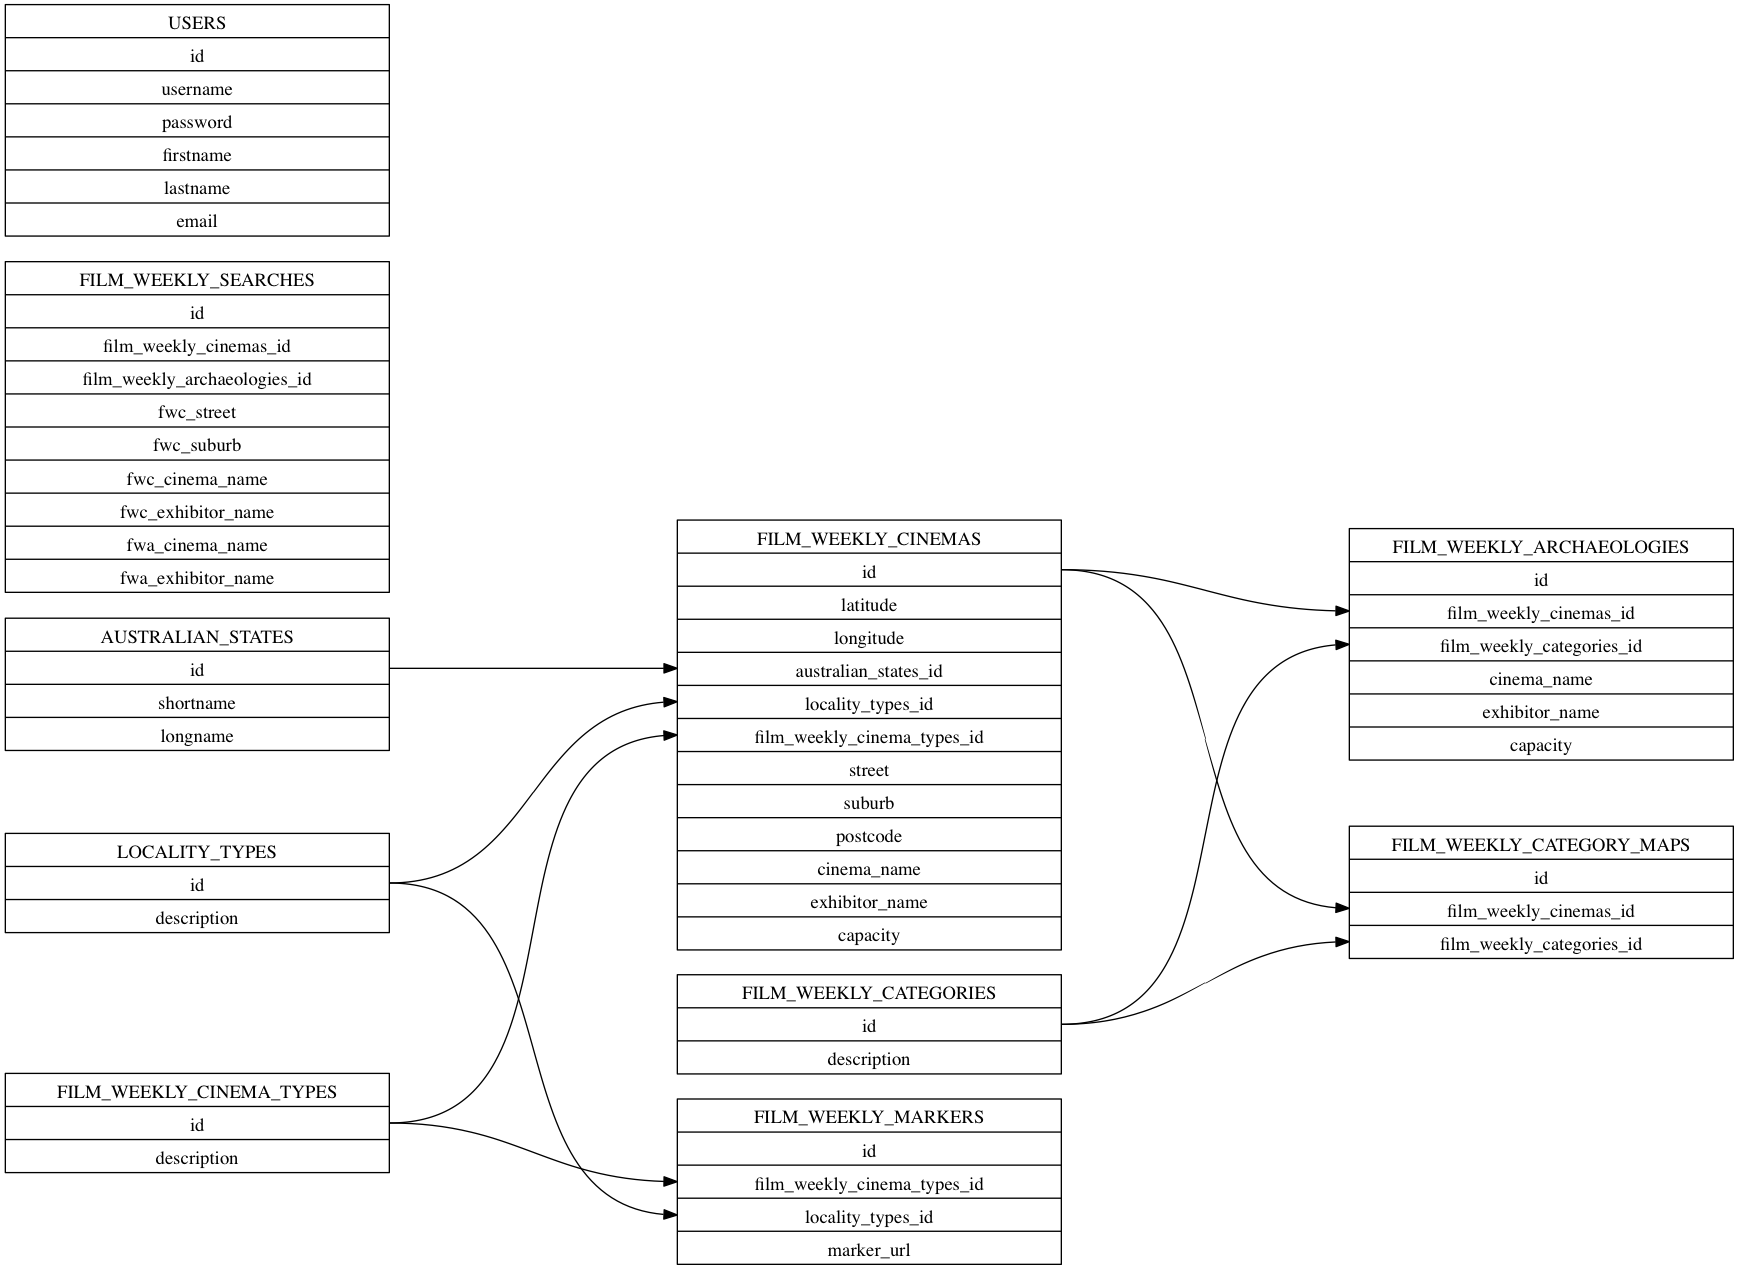
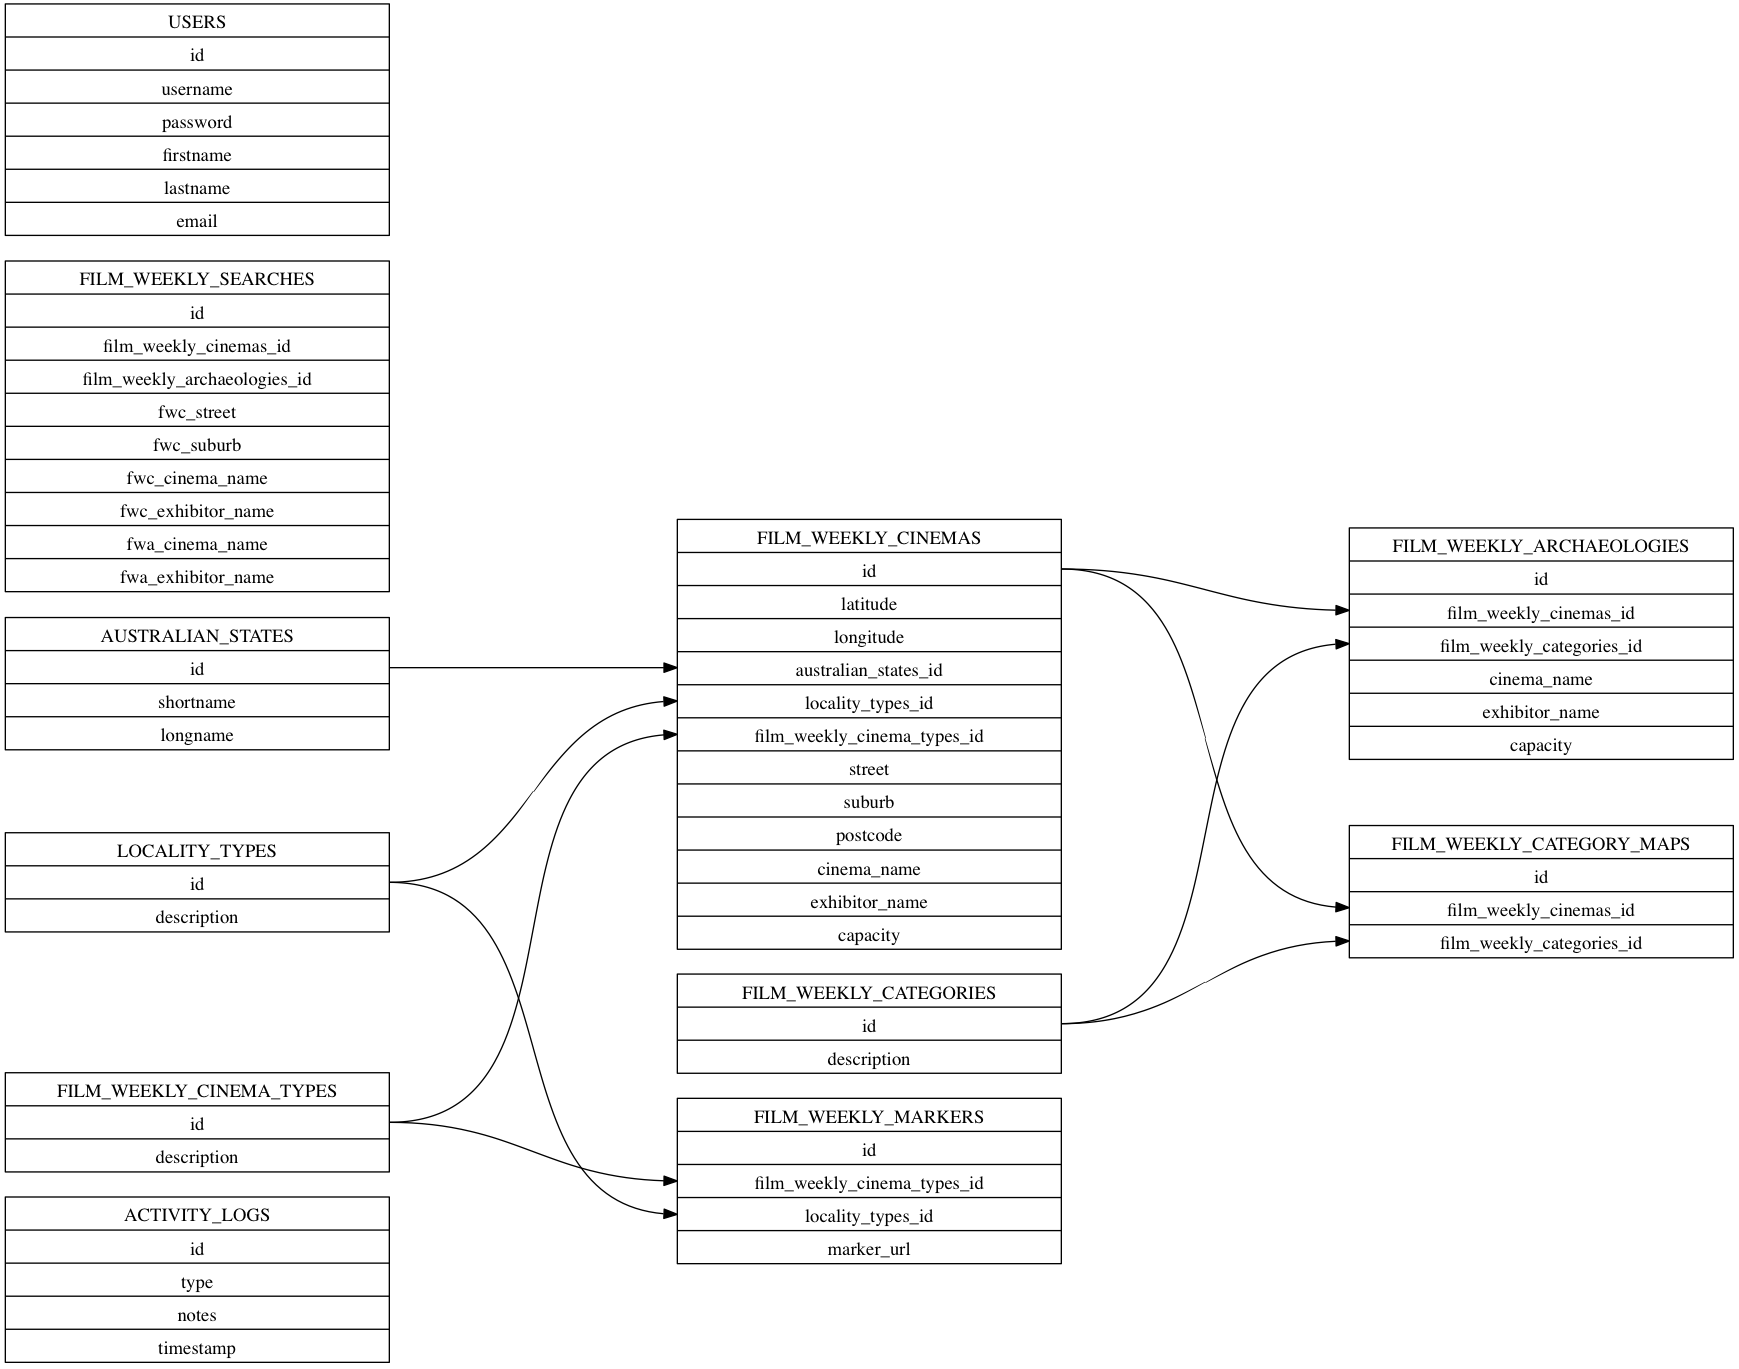
start adding the activity log functionality

diff --git a/marques/app/models/ActivityLogs.php b/marques/app/models/ActivityLogs.php
@@ -1,0 +1,35 @@
+<?php
+/**
+ * MARQUes - Maps Answering Research Questions
+ *
+ * @copyright     Copyright 2011, Flinders University (http://www.flinders.edu.au)
+ * @license       http://opensource.org/licenses/bsd-license.php The BSD License
+ */
+
+namespace app\models;
+
+use \lithium\util\Validator;
+
+/**
+ * Model used to manage Australian State records
+ */
+class ActivityLogs extends \lithium\data\Model {
+
+	/**
+	 * add validation rules for the model
+	 */
+	public $validates = array(
+		'type' => array(
+			array('notEmpty',   'message' => 'An activity log type is required unique id is required'),
+			array('lengthBetween', 'message' => 'An activity log type cannot be longer than 20 characters',
+								   'min' => 1,
+								   'max' => 20)
+		),
+		'notes' => array(
+			array('notEmpty', 'message' => 'Notes on the activity are required'),
+			array('lengthBetween', 'message' => 'An activity log note cannot be longer than 512 characters',
+								   'min' => 1,
+								   'max' => 512)
+		)
+	);	
+}

diff --git a/marques/app/controllers/SearchesController.php b/marques/app/controllers/SearchesController.php
@@ -12,6 +12,7 @@ use lithium\data\Connections;
 
 use app\models\FilmWeeklyCinemas;
 use app\models\FilmWeeklyMarkers;
+use app\models\ActivityLogs;
 
 /**
  * Search for Film Weekly Cinemas in the database
@@ -43,6 +44,15 @@ class SearchesController extends \lithium\action\Controller {
         	$results = array();
         	
         	$results = array_merge($results, $this->getFilmWeekly($search, $db));
+        	
+        	$log = array(
+        		'type'  => 'search',
+        		'notes' => $this->request->data['search'],
+        		'timestamp' => date('Y-m-d H:i:s')
+        	);
+        	
+        	$activity = ActivityLogs::create($log);
+        	$activity->save();
         	        	
      		return compact('results');
         }
